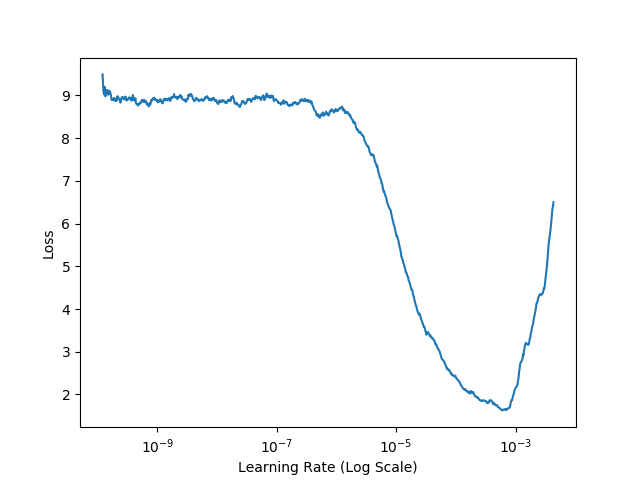
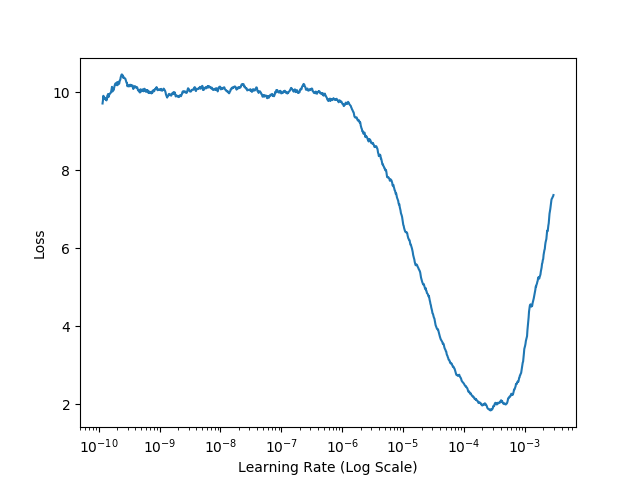
Added train and predict model

diff --git a/AI_app/Model/train.py b/AI_app/Model/train.py
@@ -4,6 +4,7 @@
 
 # set the matplotlib backend so figures can be saved in the background
 import matplotlib
+
 matplotlib.use("Agg")
 
 # import the necessary packages
@@ -33,7 +34,7 @@ import os
 # construct the argument parser and parse the arguments
 ap = argparse.ArgumentParser()
 ap.add_argument("-f", "--lr-find", type=int, default=0,
-	help="whether or not to find optimal learning rate")
+                help="whether or not to find optimal learning rate")
 args = vars(ap.parse_args())
 
 # grab the paths to all images in our dataset directory and initialize
@@ -45,56 +46,57 @@ labels = []
 
 # loop over the image paths
 for imagePath in imagePaths:
-	# extract the class label
-	label = imagePath.split(os.path.sep)[-2]
-	# load the image, convert it to RGB channel ordering, and resize
-	# it to be a fixed 224x224 pixels, ignoring aspect ratio
-	image = cv2.imread(imagePath)
-	image = cv2.cvtColor(image, cv2.COLOR_BGR2RGB)
-	image = cv2.resize(image, (224, 224))
+    # extract the class label
+    label = imagePath.split(os.path.sep)[-2]
 
-	# update the data and labels lists, respectively
-	data.append(image)
-	labels.append(label)
+    # load the image, convert it to RGB channel ordering, and resize
+    # it to be a fixed 224x224 pixels, ignoring aspect ratio
+    image = cv2.imread(imagePath)
+    image = cv2.cvtColor(image, cv2.COLOR_BGR2RGB)
+    image = cv2.resize(image, (224, 224))
+
+    # update the data and labels lists, respectively
+    data.append(image)
+    labels.append(label)
 
 # convert the data and labels to NumPy arrays
 print("[INFO] processing data...")
 data = np.array(data, dtype="float32")
 labels = np.array(labels)
- 
+
 # perform one-hot encoding on the labels
 lb = LabelBinarizer()
 labels = lb.fit_transform(labels)
- 
+
 # partition the data into training and testing splits
 (trainX, testX, trainY, testY) = train_test_split(data, labels,
-	test_size=config.TEST_SPLIT, random_state=42)
+                                                  test_size=config.TEST_SPLIT, random_state=42)
 
 # take the validation split from the training split
 (trainX, valX, trainY, valY) = train_test_split(trainX, trainY,
-	test_size=config.VAL_SPLIT, random_state=84)
+                                                test_size=config.VAL_SPLIT, random_state=84)
 
 # initialize the training data augmentation object
 aug = ImageDataGenerator(
-	rotation_range=30,
-	zoom_range=0.15,
-	width_shift_range=0.2,
-	height_shift_range=0.2,
-	shear_range=0.15,
-	horizontal_flip=True,
-	fill_mode="nearest")
+    rotation_range=30,
+    zoom_range=0.15,
+    width_shift_range=0.2,
+    height_shift_range=0.2,
+    shear_range=0.15,
+    horizontal_flip=True,
+    fill_mode="nearest")
 
 # load the VGG16 network, ensuring the head FC layer sets are left
 # off
 baseModel = VGG16(weights="imagenet", include_top=False,
-	input_tensor=Input(shape=(224, 224, 3)))
+                  input_tensor=Input(shape=(224, 224, 3)))
 
 # construct the head of the model that will be placed on top of the
 # the base model
 headModel = baseModel.output
 headModel = Flatten(name="flatten")(headModel)
 headModel = Dense(512, activation="relu")(headModel)
-#headModel = Dropout(0.5)(headModel)
+headModel = Dropout(0.5)(headModel)
 headModel = Dense(len(config.CLASSES), activation="softmax")(headModel)
 
 # place the head FC model on top of the base model (this will become
@@ -104,66 +106,66 @@ model = Model(inputs=baseModel.input, outputs=headModel)
 # loop over all layers in the base model and freeze them so they will
 # *not* be updated during the first training process
 for layer in baseModel.layers:
-	layer.trainable = False
+    layer.trainable = False
 
 # compile our model (this needs to be done after our setting our
 # layers to being non-trainable
 print("[INFO] compiling model...")
 opt = SGD(lr=config.MIN_LR, momentum=0.9)
 model.compile(loss="categorical_crossentropy", optimizer=opt,
-	metrics=["accuracy"])
+              metrics=["accuracy"])
 
 # check to see if we are attempting to find an optimal learning rate
 # before training for the full number of epochs
 if args["lr_find"] > 0:
-	# initialize the learning rate finder and then train with learning
-	# rates ranging from 1e-10 to 1e+1
-	print("[INFO] finding learning rate...")
-	lrf = LearningRateFinder(model)
-	lrf.find(
-		aug.flow(trainX, trainY, batch_size=config.BATCH_SIZE),
-		1e-10, 1e+1,
-		stepsPerEpoch=np.ceil((trainX.shape[0] / float(config.BATCH_SIZE))),
-		epochs=20,
-		batchSize=config.BATCH_SIZE)
- 
-	# plot the loss for the various learning rates and save the
-	# resulting plot to disk
-	lrf.plot_loss()
-	plt.savefig(config.LRFIND_PLOT_PATH)
- 
-	# gracefully exit the script so we can adjust our learning rates
-	# in the config and then train the network for our full set of
-	# epochs
-	print("[INFO] learning rate finder complete")
-	print("[INFO] examine plot and adjust learning rates before training")
-	sys.exit(0)
+    # initialize the learning rate finder and then train with learning
+    # rates ranging from 1e-10 to 1e+1
+    print("[INFO] finding learning rate...")
+    lrf = LearningRateFinder(model)
+    lrf.find(
+        aug.flow(trainX, trainY, batch_size=config.BATCH_SIZE),
+        1e-10, 1e+1,
+        stepsPerEpoch=np.ceil((trainX.shape[0] / float(config.BATCH_SIZE))),
+        epochs=20,
+        batchSize=config.BATCH_SIZE)
+
+    # plot the loss for the various learning rates and save the
+    # resulting plot to disk
+    lrf.plot_loss()
+    plt.savefig(config.LRFIND_PLOT_PATH)
+
+    # gracefully exit the script so we can adjust our learning rates
+    # in the config and then train the network for our full set of
+    # epochs
+    print("[INFO] learning rate finder complete")
+    print("[INFO] examine plot and adjust learning rates before training")
+    sys.exit(0)
 
 # otherwise, we have already defined a learning rate space to train
 # over, so compute the step size and initialize the cyclic learning
 # rate method
 stepSize = config.STEP_SIZE * (trainX.shape[0] // config.BATCH_SIZE)
 clr = CyclicLR(
-	mode=config.CLR_METHOD,
-	base_lr=config.MIN_LR,
-	max_lr=config.MAX_LR,
-	step_size=stepSize)
+    mode=config.CLR_METHOD,
+    base_lr=config.MIN_LR,
+    max_lr=config.MAX_LR,
+    step_size=stepSize)
 
 # train the network
 print("[INFO] training network...")
 H = model.fit_generator(
-	aug.flow(trainX, trainY, batch_size=config.BATCH_SIZE),
-	validation_data=(valX, valY),
-	steps_per_epoch=trainX.shape[0] // config.BATCH_SIZE,
-	epochs=config.NUM_EPOCHS,
-	callbacks=[clr],
-	verbose=1)
+    aug.flow(trainX, trainY, batch_size=config.BATCH_SIZE),
+    validation_data=(valX, valY),
+    steps_per_epoch=trainX.shape[0] // config.BATCH_SIZE,
+    epochs=config.NUM_EPOCHS,
+    callbacks=[clr],
+    verbose=1)
 
 # evaluate the network and show a classification report
 print("[INFO] evaluating network...")
 predictions = model.predict(testX, batch_size=config.BATCH_SIZE)
 print(classification_report(testY.argmax(axis=1),
-	predictions.argmax(axis=1), target_names=config.CLASSES))
+                            predictions.argmax(axis=1), target_names=config.CLASSES))
 
 # serialize the model to disk
 print("[INFO] serializing network to '{}'...".format(config.MODEL_PATH))

diff --git a/AI_app/Model/pyimagesearch/config.py b/AI_app/Model/pyimagesearch/config.py
@@ -3,10 +3,10 @@ import os
 
 # initialize the path to the input directory containing our dataset
 # of images
-DATASET_PATH = "db_images2"
+DATASET_PATH = "db_images"
 
 # initialize the class labels in the dataset
-CLASSES = ["Flood", "Robbery", "Violence"]
+CLASSES = ["Accidents", "Flood", "Guns", "violence"]
 
 # define the size of the training, validation (which comes from the
 # train split), and testing splits, respectively
@@ -16,23 +16,35 @@ TEST_SPLIT = 0.25
 
 # define the minimum learning rate, maximum learning rate, batch size,
 # step size, CLR method, and number of epochs
-MIN_LR = 10**(-5.5)
-MAX_LR = 10**(-3.5)
+MIN_LR = 1e-6
+MAX_LR = 1e-4
 BATCH_SIZE = 32
 STEP_SIZE = 8
 CLR_METHOD = "triangular"
 NUM_EPOCHS = 48
 
 # set the path to the serialized model after training
-MODEL_PATH = os.path.sep.join(["output3", "camera.model"])
+MODEL_PATH = os.path.sep.join(["output4", "camera.model"])
 
 # define the path to the output learning rate finder plot, training
 # history plot and cyclical learning rate plot
-LRFIND_PLOT_PATH = os.path.sep.join(["output3", "lrfind_plot.png"])
-TRAINING_PLOT_PATH = os.path.sep.join(["output3", "training_plot.png"])
-CLR_PLOT_PATH = os.path.sep.join(["output3", "clr_plot.png"])
+LRFIND_PLOT_PATH = os.path.sep.join(["output4", "lrfind_plot.png"])
+TRAINING_PLOT_PATH = os.path.sep.join(["output4", "training_plot.png"])
+CLR_PLOT_PATH = os.path.sep.join(["output4", "clr_plot.png"])
 
-#INPUT_PATH = os.path.sep.join(["videos", "fort_mcmurray_wildfire.mp4"])
-#OUTPUT_PATH = os.path.sep.join(["output3", "output3.mp4"])
-INPUT_PATH = "images"
-OUTPUT_PATH = "images_out"
+"""
+
+# set the path to the serialized model after training
+MODEL_PATH = os.path.sep.join(["output", "natural_disaster.model"])
+
+# define the path to the output learning rate finder plot, training
+# history plot and cyclical learning rate plot
+LRFIND_PLOT_PATH = os.path.sep.join(["output", "lrfind_plot.png"])
+TRAINING_PLOT_PATH = os.path.sep.join(["output", "training_plot.png"])
+CLR_PLOT_PATH = os.path.sep.join(["output", "clr_plot.png"])
+"""
+
+INPUT_PATH = os.path.sep.join(["videos", "video_violence.mp4"])
+OUTPUT_PATH = os.path.sep.join(["output4", "video_violence.mp4"])
+#INPUT_PATH = "images"
+#OUTPUT_PATH = "images_out"

diff --git a/AI_app/Data_Base/resize.py b/AI_app/Data_Base/resize.py
@@ -6,11 +6,11 @@ import re
 import numpy as np
 import random
 
-PATH = r'/home/jose8alcaide/Documentos/AI_camera/AI_app/Data_Base'
+PATH = r'/home/jose8alcaide/Documentos/AI_camera/AI_app/Data_Base/google_images/guns'
 PATH_SAVE = r'/home/jose8alcaide/Documentos/AI_camera/AI_app/Model'
-width = 320
-height = 200
-folder_db = 'db_images'
+width = 224
+height = 224
+folder_db = 'db_images3'
 
 # Delete old folder save
 if exists(join(PATH_SAVE, folder_db)):
@@ -42,6 +42,7 @@ for path, dirs, files in walk(PATH):
                 counter += 1
 
                 # Translate and save image
+                """
                 tx = random.randint(0, 100)
                 ty = random.randint(0, 100)
                 M = np.float32([[1, 0, tx], [0, 1, ty]])
@@ -49,11 +50,14 @@ for path, dirs, files in walk(PATH):
                 cv2.imwrite(join(path_save, name_file + '_T_.png'), translate_img)
 
                 counter += 1
+                """
 
                 # Rotate and save image
                 rows, cols = img.shape[:2]
                 scale = random.uniform(0.8, 2)
-                angle = random.randint(20, 360)
+                #angle = random.randint(20, 360)
+                angle = random.randint(1, 3)
+                angle = angle * 90
                 M = cv2.getRotationMatrix2D((cols / 2, rows / 2), angle, scale)
                 rotate_img = cv2.warpAffine(img, M, (cols, rows))
                 cv2.imwrite(join(path_save, name_file + '_Rot_.png'), rotate_img)
@@ -67,12 +71,14 @@ for path, dirs, files in walk(PATH):
                 counter += 1
 
                 # Noise
+                """
                 gauss = np.random.normal(0, 1, img.size)
                 gauss = gauss.reshape(img.shape[0], img.shape[1], img.shape[2]).astype('uint8')
                 n_img = cv2.add(img, gauss)
                 cv2.imwrite(join(path_save, name_file + '_N_.png'), n_img)
-
+                
                 counter += 1
+                """
                 print('\r' + str(counter) + '. ' + file, end='')
             except:
                 print("\nCan not make new images: " + file)

diff --git a/AI_app/Data_Base/google_images/download_images.py b/AI_app/Data_Base/google_images/download_images.py
@@ -9,8 +9,8 @@ import cv2
 import os
 import numpy as np
 
-PATH = r"/home/jose8alcaide/Documentos/AI_camera/AI_app/Data_Base/google_images/Accidents3/"
-URL_FILE = r"/home/jose8alcaide/Documentos/AI_camera/AI_app/Data_Base/google_images/urls3.txt"
+PATH = r"/home/jose8alcaide/Documentos/AI_camera/AI_app/Data_Base/google_images/guns/"
+URL_FILE = r"/home/jose8alcaide/Documentos/AI_camera/AI_app/Data_Base/google_images/urls4.txt"
 
 
 # grab the list of URLs from the input file, then initialize the

diff --git a/AI_app/Data_Base/delete_bad_images.py b/AI_app/Data_Base/delete_bad_images.py
@@ -2,7 +2,7 @@ from os import walk, remove
 from os.path import join
 import cv2
 
-PATH = r'/home/jose8alcaide/Documentos/AI_camera/AI_app/Model/db_images2'
+PATH = r'/home/jose8alcaide/Documentos/AI_camera/AI_app/Model/db_images/violence/'
 counter = 0
 
 for path, dirs, files in walk(PATH):
